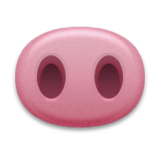
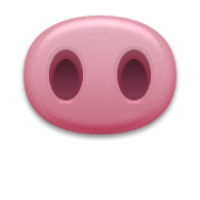
Added more algorithm under nose cascade

diff --git a/driver.py b/driver.py
@@ -7,9 +7,9 @@ eyeCascade = cv2.CascadeClassifier('Cascades/newEye1.xml')
 noseCascade = cv2.CascadeClassifier('Cascades/haarcascade_mcs_nose.xml')
 rightEarCascade = cv2.CascadeClassifier('Cascades/haarcascade_mcs_rightear.xml') 
 leftEarCascade = cv2.CascadeClassifier('Cascades/haarcascade_mcs_leftear.xml')
-mouthCascade = cv2.CascadeClassifier('Cascades/haarcascade_mcs_maouth.xml')
+mouthCascade = cv2.CascadeClassifier('Cascades/haarcascade_mcs_mouth.xml')
 
-img = cv2.imread('angelina.jpg')
+img = cv2.imread('girl2.jpg', -1)
 #_______________________________
 # Load and configure dog nose
 #_______________________________
@@ -20,20 +20,32 @@ img = cv2.imread('angelina.jpg')
 #I'M STILL FIXING SOME STUFF
 #------------------------------------------------------!!!!!!!!!!!!!!!!!
 
-img2 = cv2.imread('mustache.png', -1)
+img2 = cv2.imread('lip2.png', -1)
+
+#img3 = cv2.imread('lip2.png', -1)
 #create the mask for the mustache
 img2gray = cv2.cvtColor(img2, cv2.COLOR_BGR2GRAY)
-ret, dog_mask = cv2.threshold(img2gray, 10, 255, cv2.THRESH_BINARY_INV)
-
+#img3gray = cv2.cvtColor(img3, cv2.COLOR_BGR2GRAY)
+ret, dog_mask = cv2.threshold(img2gray, 250, 255, cv2.THRESH_BINARY_INV)
+#ret, eye_mask = cv2.threshold(img3gray, 10, 255, cv2.THRESH_BINARY_INV)
 #cv2.THRESH_BINARY_INV the value for this either 0 or 1.
-#if a pixel value is above 220, it'll be converted to 255. & if it's below 220, it'll be converted to black.
+#if a pixel value is above 250, it'll be converted to 255. & if it's below 250, it'll be converted to black.
 #then this will be flipped around because we are getting the inverse
 dog_mask_inv = cv2.bitwise_not(dog_mask)
+#eye_mask_inv = cv2.bitwise_not(eye_mask)
 # Convert glasses image to BGR
 # and save the original image size (used later when re-sizing the image)
 img2 = img2[:,:,0:3]
+#img3 = img3[:,:,0:3]
 originalDogHeight, originalDogWidth = img2.shape[:2]
+print(originalDogHeight)
+print(originalDogWidth)
+#originalEyeHeight, originalEyeWidth = img3.shape[:2]
+#print(originalEyeHeight)
+#print(originalEyeWidth)
+
 gray = cv2.cvtColor(img, cv2.COLOR_BGR2GRAY)
+
 #cv2.imwrite('grayversion.jpg', gray)
 faces = frontFaceCascade.detectMultiScale(gray, scaleFactor = 1.1, minNeighbors = 5, minSize =(30, 30), flags = cv2.cv.CV_HAAR_SCALE_IMAGE)
 #(x, y)
@@ -41,7 +53,7 @@ faces = frontFaceCascade.detectMultiScale(gray, scaleFactor = 1.1, minNeighbors 
 #h stands for height
 for(x, y, w, h) in faces:
 
-	cv2.rectangle(img, (x, y), (x+w, y+h), (225, 0, 0), 2)
+	#cv2.rectangle(img, (x, y), (x+w, y+h), (225, 0, 0), 2)
 	
 	#roi stands for region of interest. It's where you want to work on.
 	
@@ -57,23 +69,27 @@ for(x, y, w, h) in faces:
 	nose = noseCascade.detectMultiScale(roi_gray)
 	mouth = mouthCascade.detectMultiScale(roi_grayMouthArea)
 	
-	
-	for(x3, y3, w3, h3) in eyesPair:
-		#cv2.rectangle(roi_color, (x3, y3), (x3+w3, y3+h3), (225, 0, 0), 2)
+	for(x2, y2, w2, h2) in eyesPair:
 		#below is where CARLOS is supposed to work:
+		
+		break
 		
 	for(x4, y4, w4, h4) in mouth:
 		#cv2.rectangle(roi_color, (x4, y4), (x4+w4, y4+h4), (0, 0, 225), 2)
 		#below is where NICOLAS is supposed to work:
 		#except you need to keep changing your cascade until you find a more accurate one.
 		
+		break
+
 	for(x2, y2, w2, h2) in nose: 
 		#cv2.rectangle(roi_color, (x2, y2), (x2+w2, y2+h2), (0, 225, 0), 2)
-		
+		y2 = y2+20
+		x2 = x2+5
 		#The dog image should be 3 times the width of the nose
-		dogWidth = 3 * w2
+		dogWidth = 2*w2
 		dogHeight = dogWidth * originalDogHeight / originalDogWidth
-		
+		print(dogWidth)
+		print(dogHeight)
 		#center the dog nose on the bottom of the nose
 		xn1 = x2 -(dogWidth/4)
 		xn2 = x2 + w2 + (dogWidth/4)
@@ -86,7 +102,7 @@ for(x, y, w, h) in faces:
 			yn1 = 0
 		if xn2 > 640:
 			xn2 = w2
-		if y2 > 360:
+		if y2 > 320:
 			yn2 = h2
 		
 		#Re-canculate the width and height of the dog's nose image
@@ -106,13 +122,13 @@ for(x, y, w, h) in faces:
 		
 		#roi_bg contains the original image only where the dog nose is not in the region that is the size of the dog nose
 		roi_bg = cv2.bitwise_and(roi_nose, roi_nose, mask = mask_inv)
+		cv2.imwrite('roiBG.png', roi_bg)
 		#roi_fg contains the image of the dog nose only where the dog nose is
 		roi_fg = cv2.bitwise_and(dogNose, dogNose, mask=mask)
-		
+		cv2.imwrite('roiFG.png', roi_fg)
 		#join the roi_bg and roi_fg
 		dst = cv2.add(roi_bg, roi_fg)
 		roi_color[yn1:yn2, xn1:xn2] = dst
 		
 		break
-cv2.imshow('Hello', img)
 cv2.imwrite('newImg.png', img)

diff --git a/drawing.py b/drawing.py
@@ -6,7 +6,7 @@ import numpy as np
 import cv2
 
 img = cv2.imread("person.jpg")
-img2 = cv2.imread("carnation.jpg")
+img2 = cv2.imread("pig.png")
 
 """
 px = img[55, 55]
@@ -69,3 +69,48 @@ img[0:rows, 0:cols] = dst
 cv2.imwrite('res.png', img)
 cv2.waitKey(0)
 cv2.destroyAllWindows()	
+
+'''
+		eyeWidth = 3 * w2
+		eyeHeight = eyeWidth * originalEyeHeight / originalEyeWidth
+
+		#center the dog nose on the bottom of the nose
+		xn1 = x2 -(eyeWidth/4)
+		xn2 = x2 + w2 + (eyeWidth/4)
+		yn1 = y2 + h2 - (eyeHeight/2)
+		yn2 = y2 + h2 + (eyeHeight/2)
+
+		if xn1 < 0:
+			xn1 = 0
+		if yn1 < 0:
+			yn1 = 0
+		if xn2 > 640:
+			xn2 = w2
+		if y2 > 360:
+			yn2 = h2
+
+		#Re-canculate the width and height of the dog's nose image
+		eyeWidth = xn2 - xn1
+		eyeHeight = yn2 - yn1
+
+		#Re-size the original image and the masks to the dog's nose's original sizes
+		#calculated above
+		eye = cv2.resize(img3, (eyeWidth, eyeHeight), interpolation = cv2.INTER_AREA)
+		mask = cv2.resize(eye_mask, (eyeWidth, eyeHeight), interpolation = cv2.INTER_AREA)
+		mask_inv = cv2.resize(eye_mask_inv, (eyeWidth, eyeHeight), interpolation = cv2.INTER_AREA)
+		print(mask.size)
+
+		#take ROI for dog nose from background equal to size of ROI of dog nose image
+		roi_nose = roi_color[xn1:xn2, yn1:yn2]
+		print(roi_nose.size)
+
+		#roi_bg contains the original image only where the dog nose is not in the region that is the size of the dog nose
+		roi_bg = cv2.bitwise_and(roi_nose, roi_nose, mask = mask_inv)
+		#roi_fg contains the image of the dog nose only where the dog nose is
+		roi_fg = cv2.bitwise_and(eye, eye, mask=mask)
+
+		#join the roi_bg and roi_fg
+		dst = cv2.add(roi_bg, roi_fg)
+		roi_color[yn1:yn2, xn1:xn2] = dst
+		
+'''
